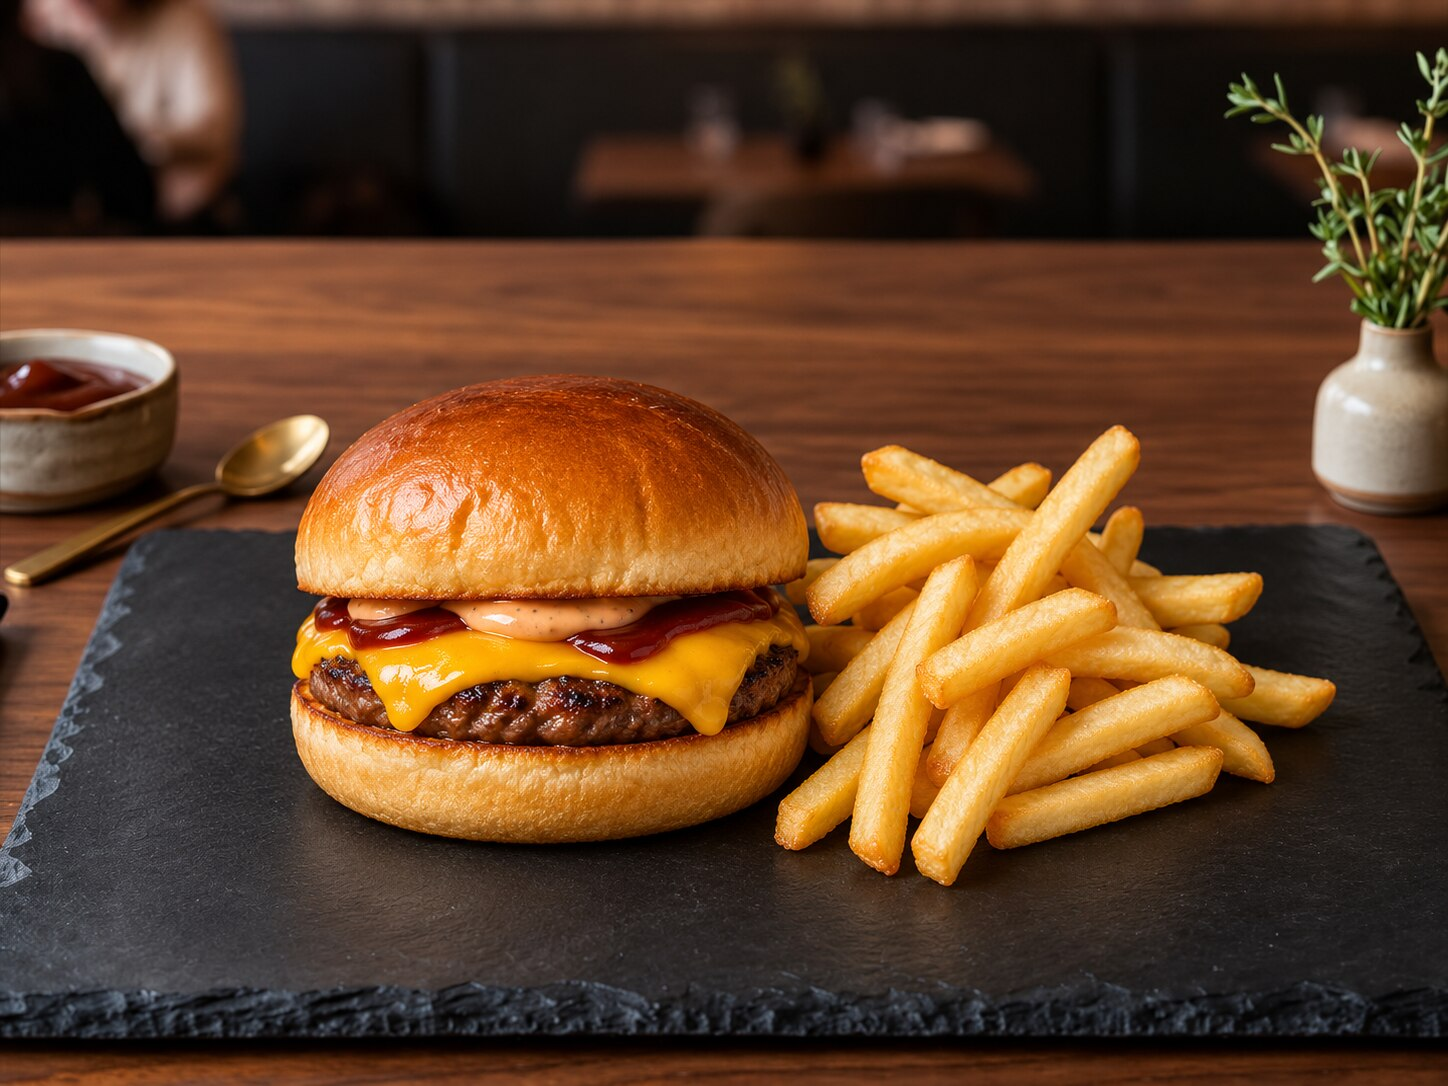
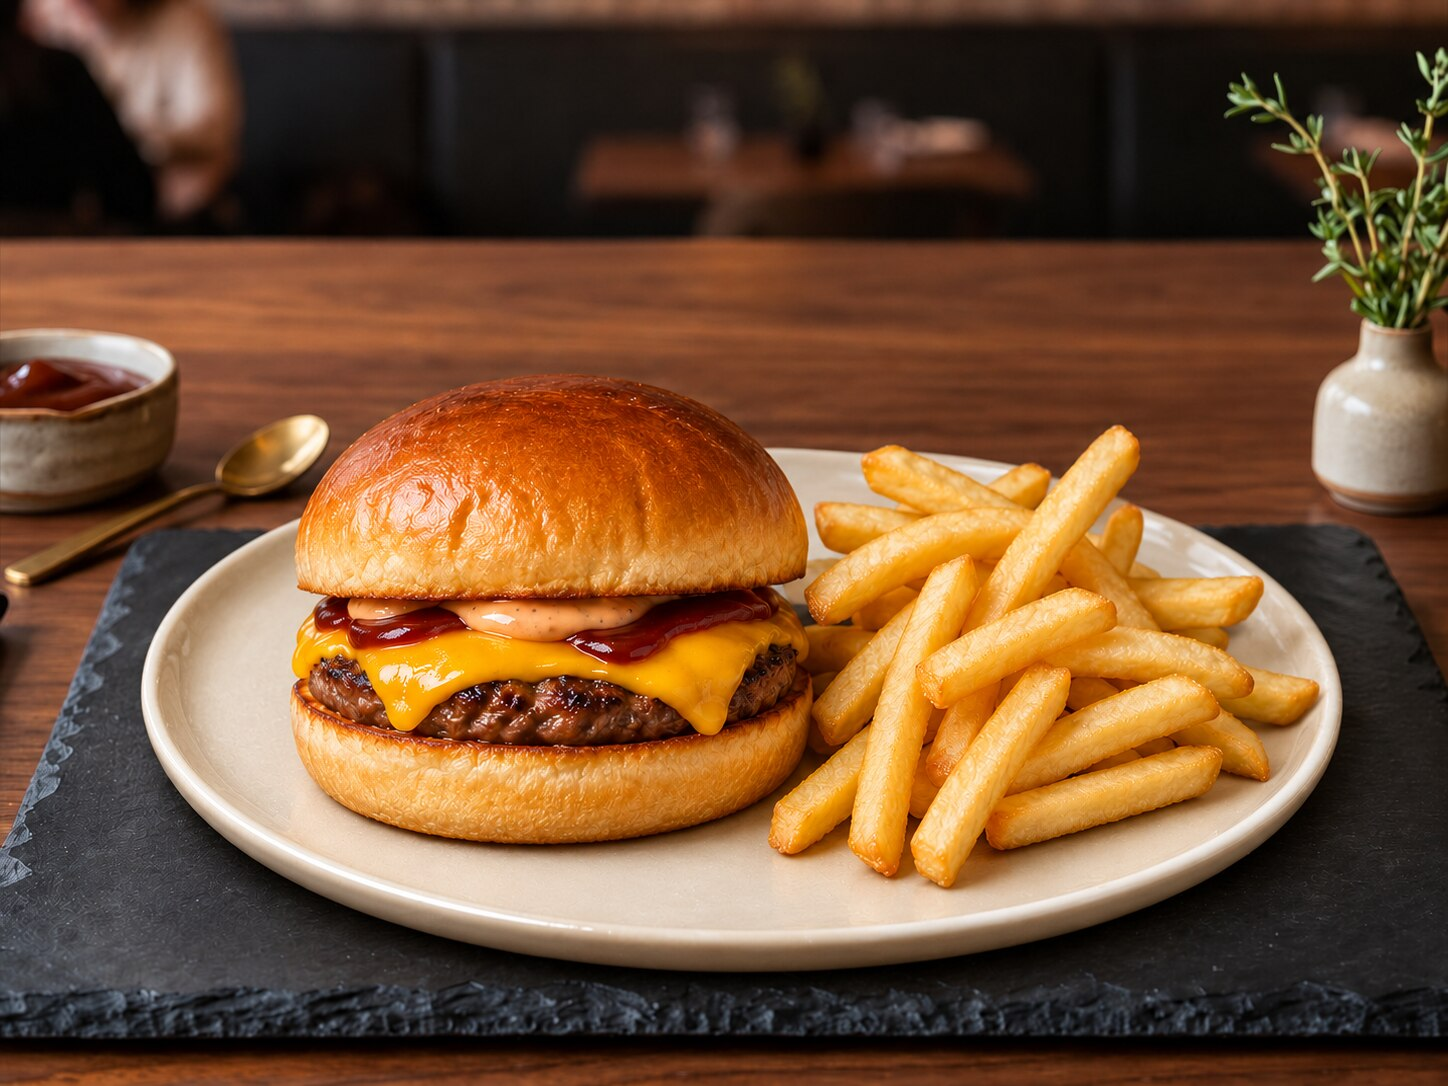
Serve cheeseburger and chicken tenders on plates throughout menu

diff --git a/index.html b/index.html
@@ -66,8 +66,8 @@
         <div class="category-tile" onclick="openSection('menu','salad')"><img src='images/salads.jpg' alt="Salads"/><div class="tile-shade"></div><div class="tile-caption">Salads</div></div>
         <div class="category-tile" onclick="openSection('menu','drinks')"><img src='images/drinks.jpg?v=20261116' alt="Drinks" style='object-position:center center'/><div class="tile-shade"></div><div class="tile-caption">Drinks</div></div>
         <div class="category-tile" onclick="openSection('menu','desserts')"><img src='images/desserts.jpg' alt="Desserts"/><div class="tile-shade"></div><div class="tile-caption">Desserts</div></div>
-        <div class="category-tile" onclick="openSection('menu','burgers')"><img src='images/burgers.jpg?v=20261116' alt='Burgers' style='object-position:36% center'/><div class="tile-shade" style="background:linear-gradient(to top,rgba(29,34,38,.85) 0%,rgba(29,34,38,.1) 60%,transparent 100%)"></div><div class="tile-caption">Burgers</div></div>
-        <button type="button" class="category-tile" onclick="openSection('menu','kids')" aria-label="Kid’s Menu" style="padding:0;border:0;background:transparent"><img src='images/kids.jpg' alt=""/><span class="tile-shade"></span><span class="tile-caption">Kids</span></button>
+        <div class="category-tile" onclick="openSection('menu','burgers')"><img src='images/burgers.jpg?v=20261116-plates' alt='Burgers' style='object-position:36% center'/><div class="tile-shade" style="background:linear-gradient(to top,rgba(29,34,38,.85) 0%,rgba(29,34,38,.1) 60%,transparent 100%)"></div><div class="tile-caption">Burgers</div></div>
+        <button type="button" class="category-tile" onclick="openSection('menu','kids')" aria-label="Kid’s Menu" style="padding:0;border:0;background:transparent"><img src='images/kids.jpg?v=20261116-plates' alt=""/><span class="tile-shade"></span><span class="tile-caption">Kids</span></button>
         
       </div>
       <div class="centered spaced-top"><button class="action" onclick="openSection('menu')">View Full Menu</button></div>
@@ -79,7 +79,7 @@
       <h2 class="specialties-heading">Signature <span class="italic">Specialties</span></h2>
       <div class="specialty-grid">
         <article class="specialty"><div class="specialty-photo"><img src='images/chicken-shawarma-plate.jpg' alt="Chicken Shawarma Plate"/></div><div class="specialty-text"><div class="specialty-top"><h3 class="specialty-name">Chicken Shawarma Plate</h3><span class="specialty-price">$15.99</span></div><p class="specialty-note">Served with salad, your choice of rice or mujadara, garlic sauce, tahini &amp; special sauce.</p></div></article>
-        <article class="specialty"><div class="specialty-photo"><img src='images/burgers.jpg?v=20261116' alt="Burger &amp; Fries Combo"/></div><div class="specialty-text"><div class="specialty-top"><h3 class="specialty-name">Burger &amp; Fries Combo</h3><span class="specialty-price">$11.99</span></div><p class="specialty-note">Cheese, special sauce &amp; BBQ sauce.</p></div></article>
+        <article class="specialty"><div class="specialty-photo"><img src='images/burgers.jpg?v=20261116-plates' alt="Burger &amp; Fries Combo"/></div><div class="specialty-text"><div class="specialty-top"><h3 class="specialty-name">Burger &amp; Fries Combo</h3><span class="specialty-price">$11.99</span></div><p class="specialty-note">Cheese, special sauce &amp; BBQ sauce.</p></div></article>
         <article class="specialty"><div class="specialty-photo"><img src='images/loaded-fries.jpg' alt="Loaded Fries"/></div><div class="specialty-text"><div class="specialty-top"><h3 class="specialty-name">Loaded Fries</h3><span class="specialty-price">From $7.99</span></div><p class="specialty-note">Choose cheese, chicken or meat loaded fries.</p></div></article>
       </div>
       <div class="centered spaced-top"><button class="full-menu-link" onclick="openSection('menu')">See the full menu</button></div>
@@ -255,7 +255,7 @@
   <div class="section-rule"></div>
 
   <section class="menu-group" id="burgers">
-    <div class="section-banner"><img src='images/burgers.jpg?v=20261116' alt="Burgers" style='object-position:center 62%'/><div class="section-banner-caption"><span>Burgers</span></div></div>
+    <div class="section-banner"><img src='images/burgers.jpg?v=20261116-plates' alt="Burgers" style='object-position:center 62%'/><div class="section-banner-caption"><span>Burgers</span></div></div>
     <div class="menu-group-body"><div class="dish-list">
       <div class="dish"><div class="dish-row"><span class="dish-title">Burger &amp; Fries Combo</span><span class="dish-leader"></span><span class="dish-cost">$11.99</span></div><p class="dish-detail">Cheese, special sauce &amp; BBQ sauce.</p></div>
     </div>
@@ -365,7 +365,7 @@
   <div class="section-rule"></div>
 
   <section class="menu-group" id="kids">
-    <div class="section-banner"><img src='images/kids.jpg' alt="Chicken tenders with fries" style='object-position:center 70%'/><div class="section-banner-caption"><span>Kid’s Menu</span></div></div>
+    <div class="section-banner"><img src='images/kids.jpg?v=20261116-plates' alt="Chicken tenders with fries" style='object-position:center 70%'/><div class="section-banner-caption"><span>Kid’s Menu</span></div></div>
     <div class="menu-group-body"><div class="dish-list">
       <div class="dish"><div class="dish-row"><span class="dish-title">Cheeseburger</span><span class="dish-leader"></span><span class="dish-cost">$5.99</span></div></div>
       <div class="dish"><div class="dish-row"><span class="dish-title">2 Tenders with Fries</span><span class="dish-leader"></span><span class="dish-cost">$6.99</span></div></div>
